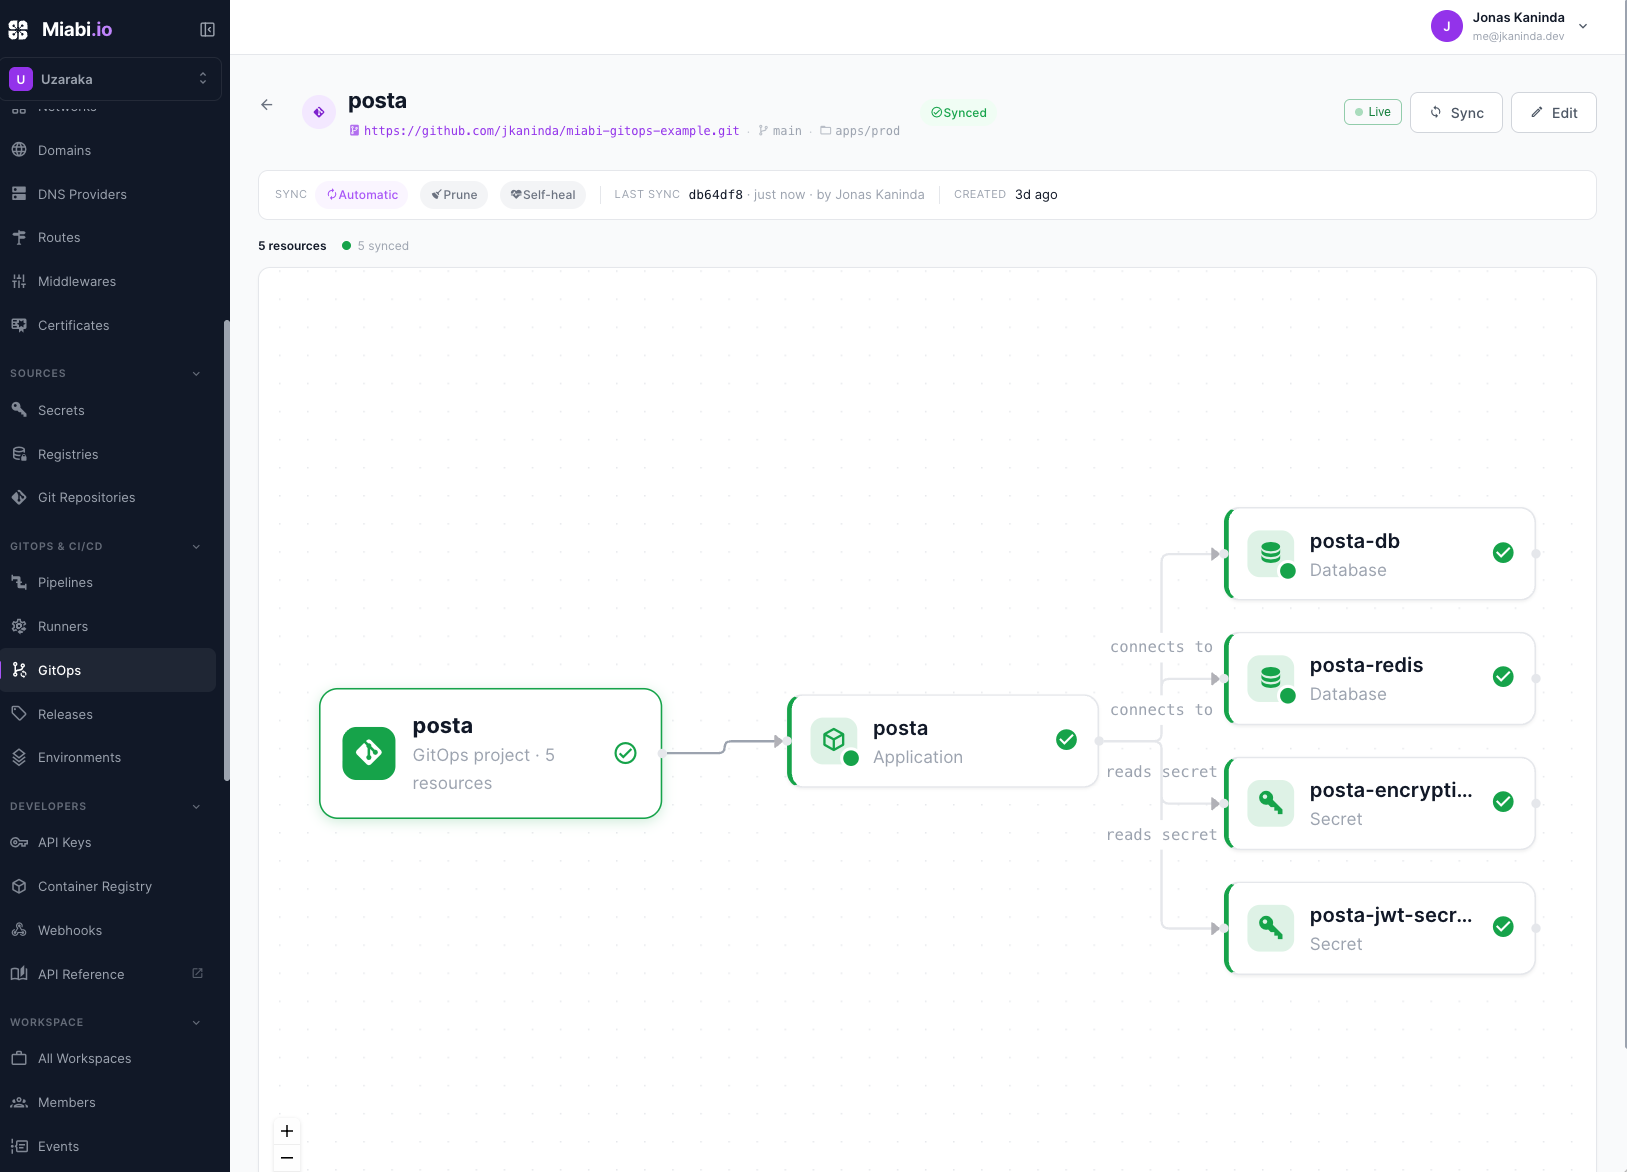
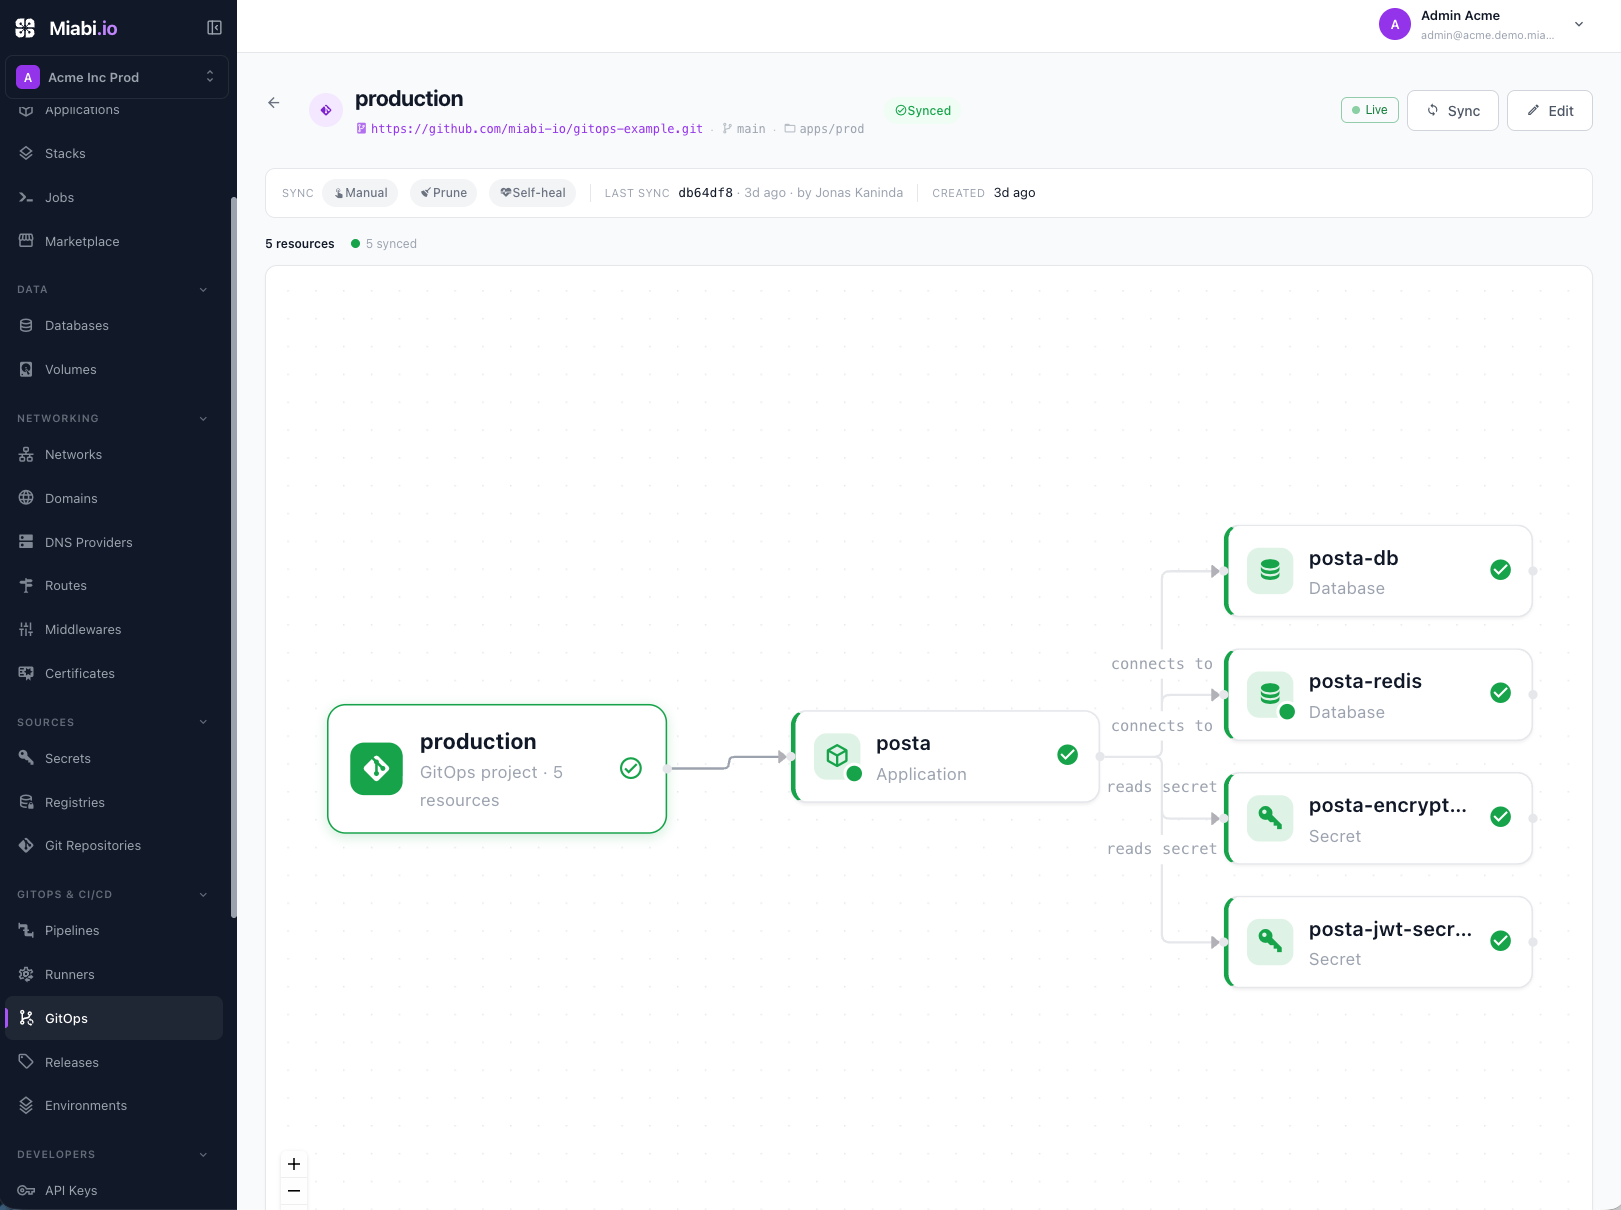
update cli and home page hero section

diff --git a/src/pages/index.tsx b/src/pages/index.tsx
@@ -29,15 +29,12 @@ function HomepageHeader() {
         </span>
 
         <Heading as="h1" className={styles.heroTitle}>
-          The Self-Hosted{' '}
-          <span className={styles.gradientText}>PaaS for Docker</span>
+          Deploy Apps{' '}
+          <span className={styles.gradientText}>Not Infrastructure</span>
         </Heading>
 
         <p className={styles.heroSubtitle}>
-          Your own Heroku, on your own server. Push an app — from a Git repo, a
-          Docker image, or a marketplace template — and Miabi handles build,
-          deploy, domains, automatic SSL, databases, scaling, backups, and
-          monitoring. All from one web interface, in minutes.
+          Deploy from a Git repository, a Docker image, or a marketplace template. Miabi handles builds, domains, automatic SSL, databases, backups, scaling, and monitoring.
         </p>
 
         <div className={styles.buttons}>

diff --git a/docs/cicd/cli.md b/docs/cicd/cli.md
@@ -25,17 +25,34 @@ releases, and the authoritative command reference live on GitHub:
 
 ## Install
 
+**Homebrew** (macOS and Linux):
+
 ```bash
-# Go toolchain
+brew install miabi-io/tap/miabi
+```
+
+:::note
+Homebrew 6 requires third-party taps to be trusted. The one-liner above handles it; if you tap first,
+run `brew trust miabi-io/tap` before `brew install miabi`.
+:::
+
+**Go:**
+
+```bash
 go install github.com/miabi-io/miabi-cli@latest   # installs the `miabi` binary
 ```
 
 Or grab a **prebuilt binary** for Linux, macOS, or Windows from the
-[releases page](https://github.com/miabi-io/miabi-cli/releases/latest). There's also a container
-image for CI that needs no local install:
+[releases page](https://github.com/miabi-io/miabi-cli/releases/latest).
+
+**Docker** — no install at all, which is handy in CI:
 
 ```bash
 docker run --rm -e MIABI_URL -e MIABI_TOKEN miabi/miabi-cli:latest whoami
+
+# deploy from a pipeline — exits non-zero if the rollout fails
+docker run --rm -e MIABI_URL -e MIABI_TOKEN \
+  miabi/miabi-cli:latest apps deploy web --tag "$GIT_SHA" --wait
 ```
 
 ## Authenticate
@@ -93,7 +110,7 @@ argument**, or use the app bound with `miabi use`.
 | Command | What it does |
 |---|---|
 | `miabi login` · `miabi whoami` | Store URL + token; show identity, scopes, and active context. |
-| `miabi workspace list \| show \| switch <name-or-id>` | List, show, or set the active workspace. |
+| `miabi workspace ls \| show \| switch <name-or-id>` | List, show, or set the active workspace (alias: `ws`). |
 | `miabi use [app] \| --clear` | Bind (or show/clear) the default app. |
 | `miabi apps ls` | List the workspace's applications (marks the bound app). |
 | `miabi apps create <name> (--image <img> [--tag] \| --git-repo <url> [--git-ref]) [--port] [--use]` | Create an app from an image or Git source. |
@@ -104,8 +121,10 @@ argument**, or use the app bound with `miabi use`.
 | `miabi apps logs [app] [--follow] [--tail N] [--deployment <n>]` | Runtime logs (or a deployment's build logs with `--deployment`); `--follow` streams. |
 | `miabi apps deployments [app]` | Deploy history — the `NUMBER` column addresses a deployment. |
 | `miabi apps releases [app]` | List an app's releases (by `VERSION`). |
-| `miabi apps env set [app] KEY=VALUE [--secret]` | Set an environment variable (or a secret ref). |
-| `miabi apps env import [app] --file .env [--secret]` | Bulk-import variables from a file. |
+| `miabi apps env ls [app]` | List the app's env vars (secret values are masked). |
+| `miabi apps env set [app] KEY=VALUE [--secret]` | Set an environment variable. |
+| `miabi apps env set [app] KEY --from-file <f> [--secret]` | Set the value from a file (or `-` for stdin) — keeps it out of your shell history. |
+| `miabi apps env import [app] --from-file .env [--secret]` | Bulk-import variables from a file (`-` = stdin). |
 | `miabi apps rm [app] [--yes]` | Delete an application. |
 | `miabi db …` | Manage database instances + logical databases (see below). |
 | `miabi secrets …` | Manage the workspace secret vault (see below). |
